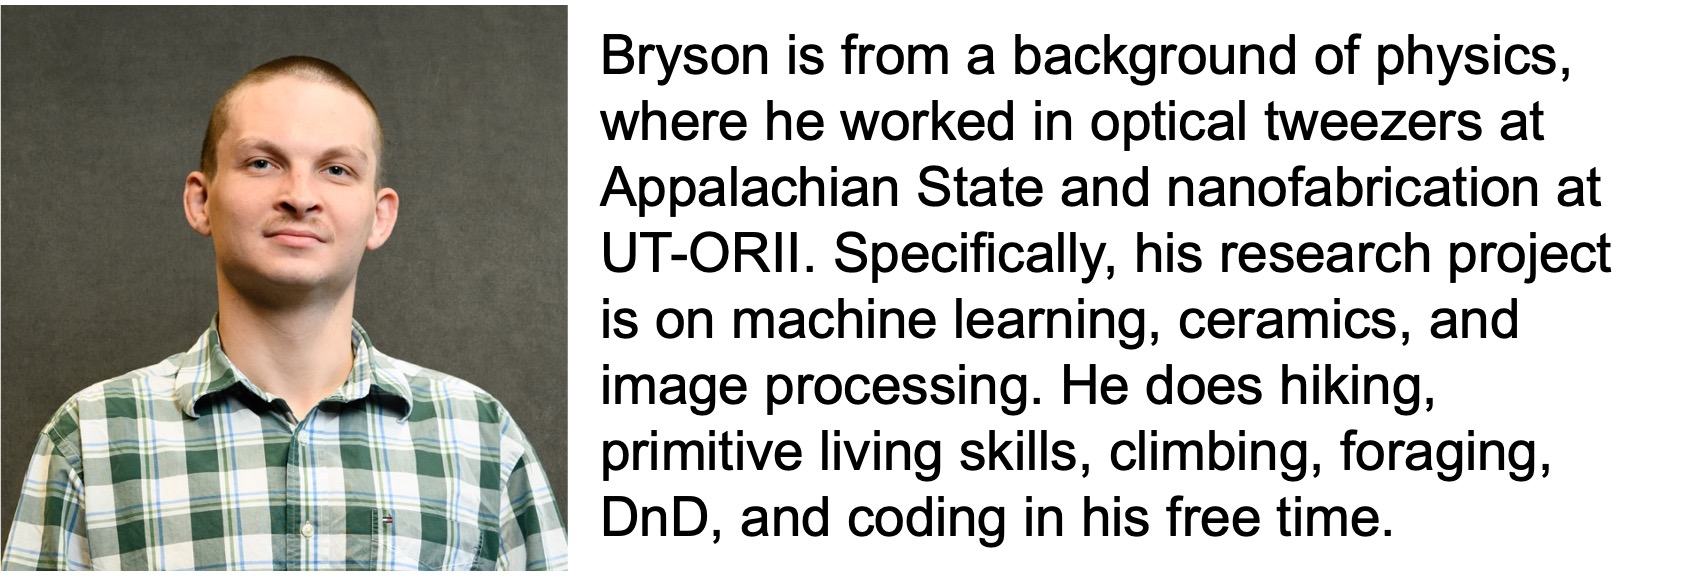
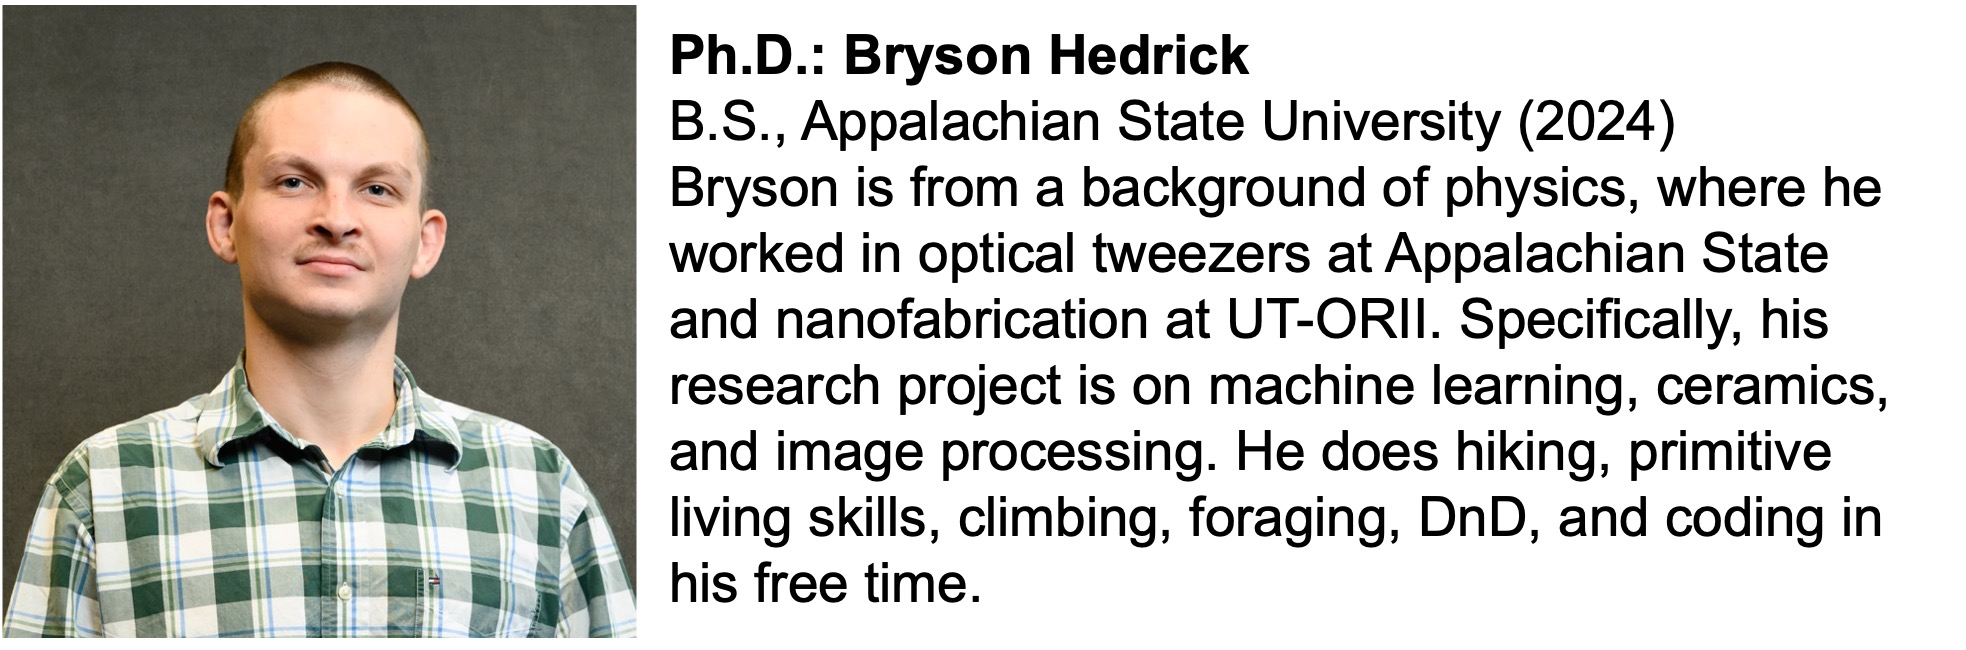
202506 add

diff --git a/posts.md b/posts.md
@@ -10,10 +10,8 @@ Some good words by the students in the MSE 3020 evaluation. Grazieeee!<br>
     <li>Dr. Hou does a good job of communicating what is expected to use. He is easy to understand in lecture and is very willing to help with any lab report questions. His feedback on the lab reports has, also, been very help allowing us to know how to make the next one better.</li>
     <li>I enjoy all the labs and I enjoyed all the experience I have gained from this class. He enjoys his job and it shows. He is very smart and wants us to gain a lot of experience with the equipment we used in the labs. Even though this is a required class I recommend it to everyone.</li>
     <li>I enjoyed Dr. Hou's lectures and appreciated his effort to engage the class with relevant information before we went into the lab.</li>
-    <li>Dr. Hou communicated his expectations regarding both individual and group lab reports. He informed us of mistakes and areas of improvement before taking significant points off of our reports. There was a learning curve and he gave the students the chance to do so without significantly suffering grades.</li>
     <li>The labs were well-made, and had good instruction on how to report the findings in the post-lab report.</li>
     <li>I think the lectures were great but I think he makes the questions for the finals a bit much. </li>
-    <li>I learned a lot about important things for my future!</li>
     <li>The course went smoothly and I feel like we learned a ton of information that will be useful in the industry.</li>
   </ul>
 </blockquote>

diff --git a/group.md b/group.md
@@ -21,10 +21,7 @@ layout: splash
 
 <b>Lab Members</b><br>
 <b>Graduates</b>:<br>
-<img src="/assets/group/placeholder_member_1.jpg" alt="Member" hight="240 px"><br>
-<b>Ph.D.: Bryson Hedrick</b><br>
-Education: B.S., Appalachian State University (2024)<br>
-LinkedIn: https://www.linkedin.com/in/bryson-scott-hedrick/<br>
+<img src="/assets/group/placeholder_member_1.jpg" alt="Member" hight="160 px"><br>
 <br>
 <!-- <b>M.S.: JohnDoe2 </b>, Fall 2025, (xxx@clemson.edu)<br>
 Education: B.S., xxx University (2020)<br>
